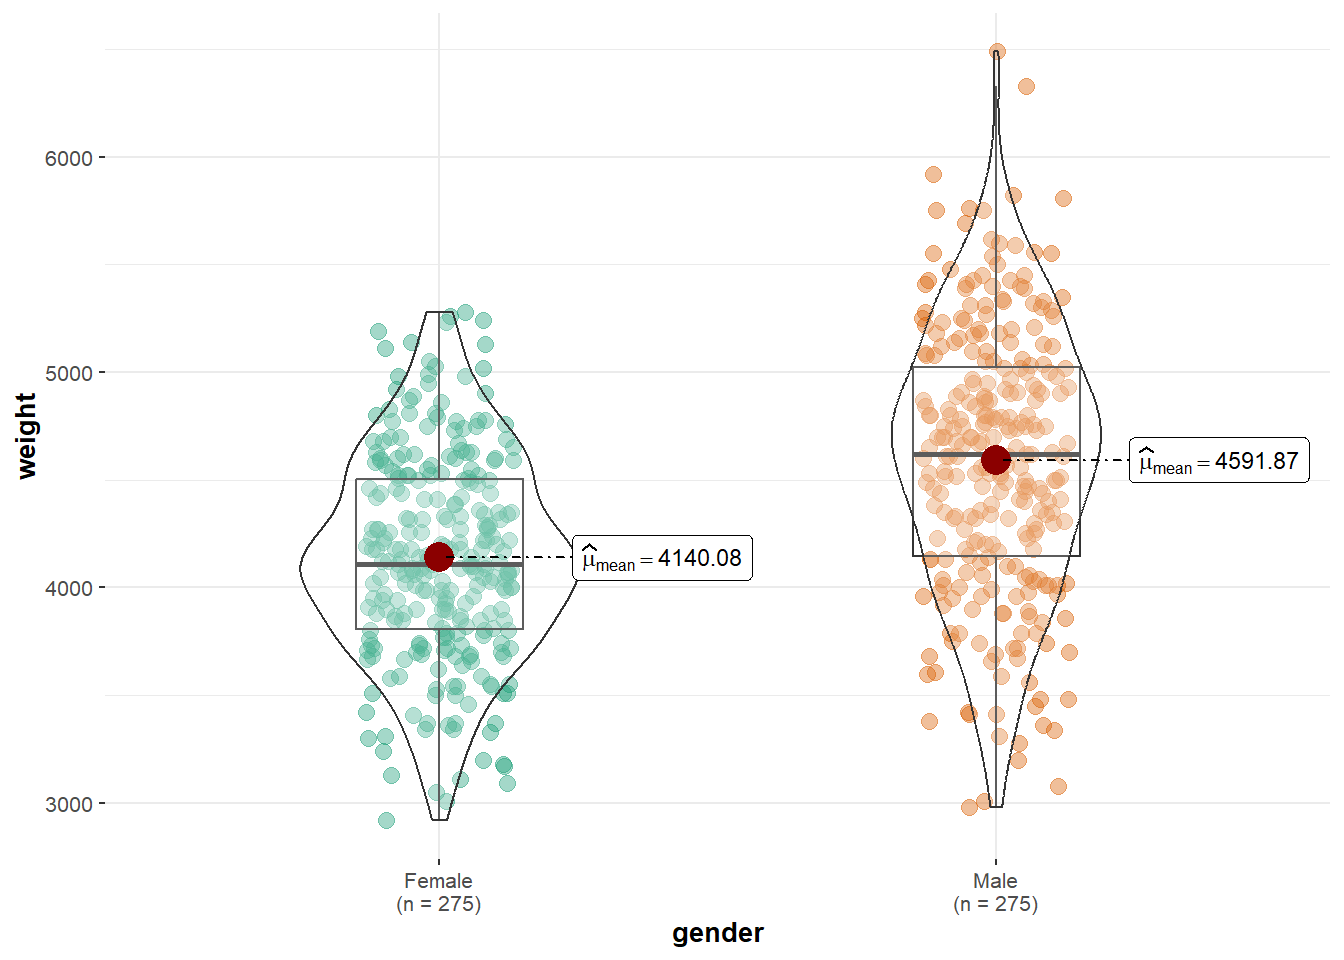
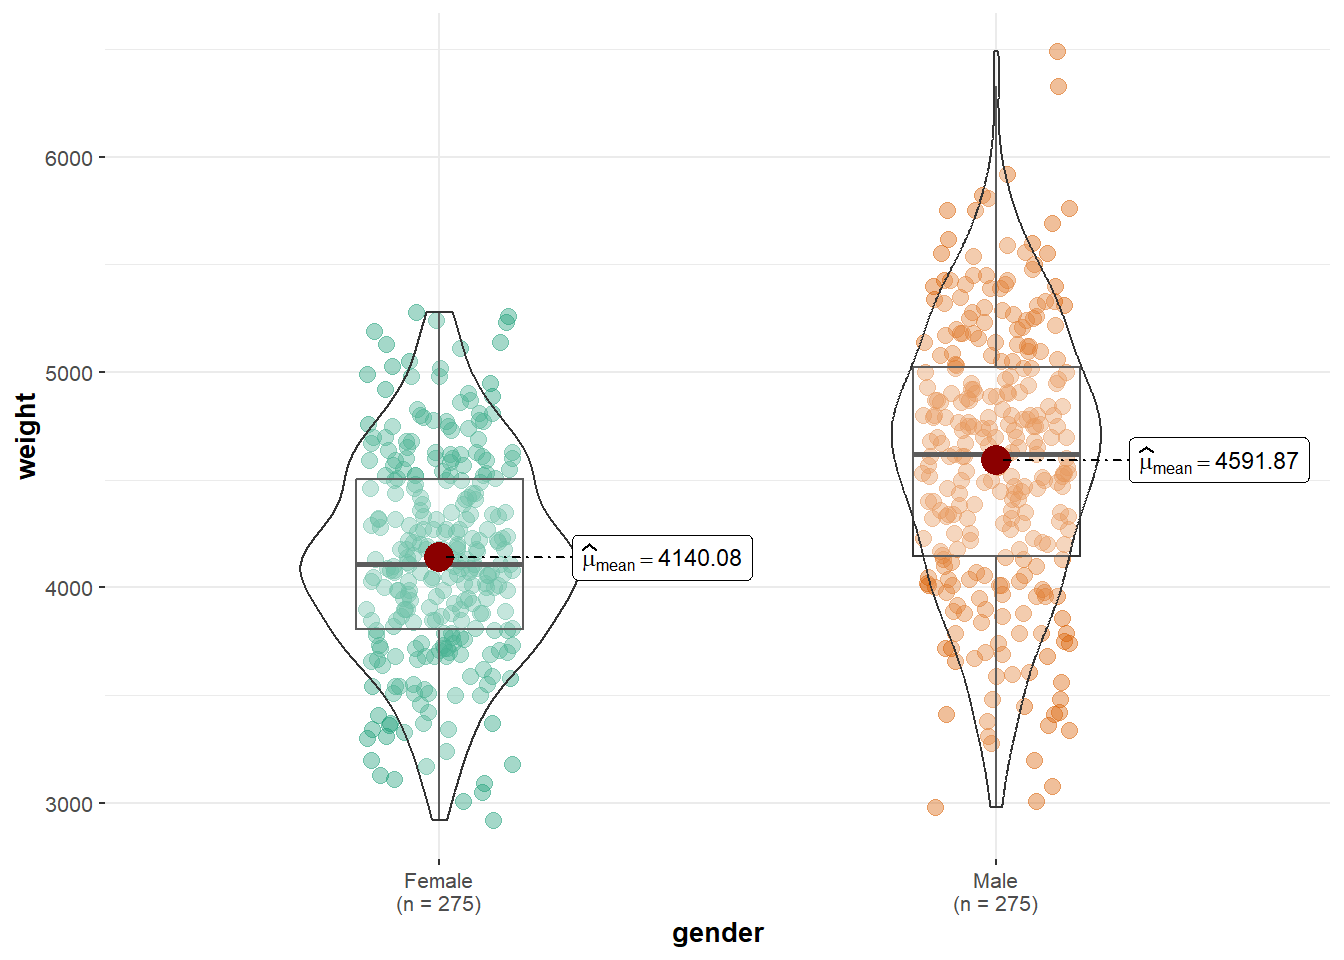
0.2.4

diff --git a/_book/index.html b/_book/index.html
@@ -7,7 +7,7 @@
 <meta name="viewport" content="width=device-width, initial-scale=1.0, user-scalable=yes">
 
 <meta name="author" content="Konstantinos I. Bougioukas, PhD">
-<meta name="dcterms.date" content="2026-04-27">
+<meta name="dcterms.date" content="2026-04-28">
 
 <title>Statistics II</title>
 <style>
@@ -208,7 +208,7 @@ ul.task-list li input[type="checkbox"] {
     <div>
     <div class="quarto-title-meta-heading">Published</div>
     <div class="quarto-title-meta-contents">
-      <p class="date">April 27, 2026</p>
+      <p class="date">April 28, 2026</p>
     </div>
   </div>
   
@@ -232,7 +232,6 @@ ul.task-list li input[type="checkbox"] {
 <li><p>Multiple Linear Regression. Interaction between variables.</p></li>
 <li><p>Mediation and Path Analysis.</p></li>
 <li><p>Factor Analysis.</p></li>
-<li><p>Principles of Evidence Synthesis (Systematic reviews and Meta-analysis).</p></li>
 </ul>
 <div id="" class="qrcode"></div>
 <script type="text/javascript">
